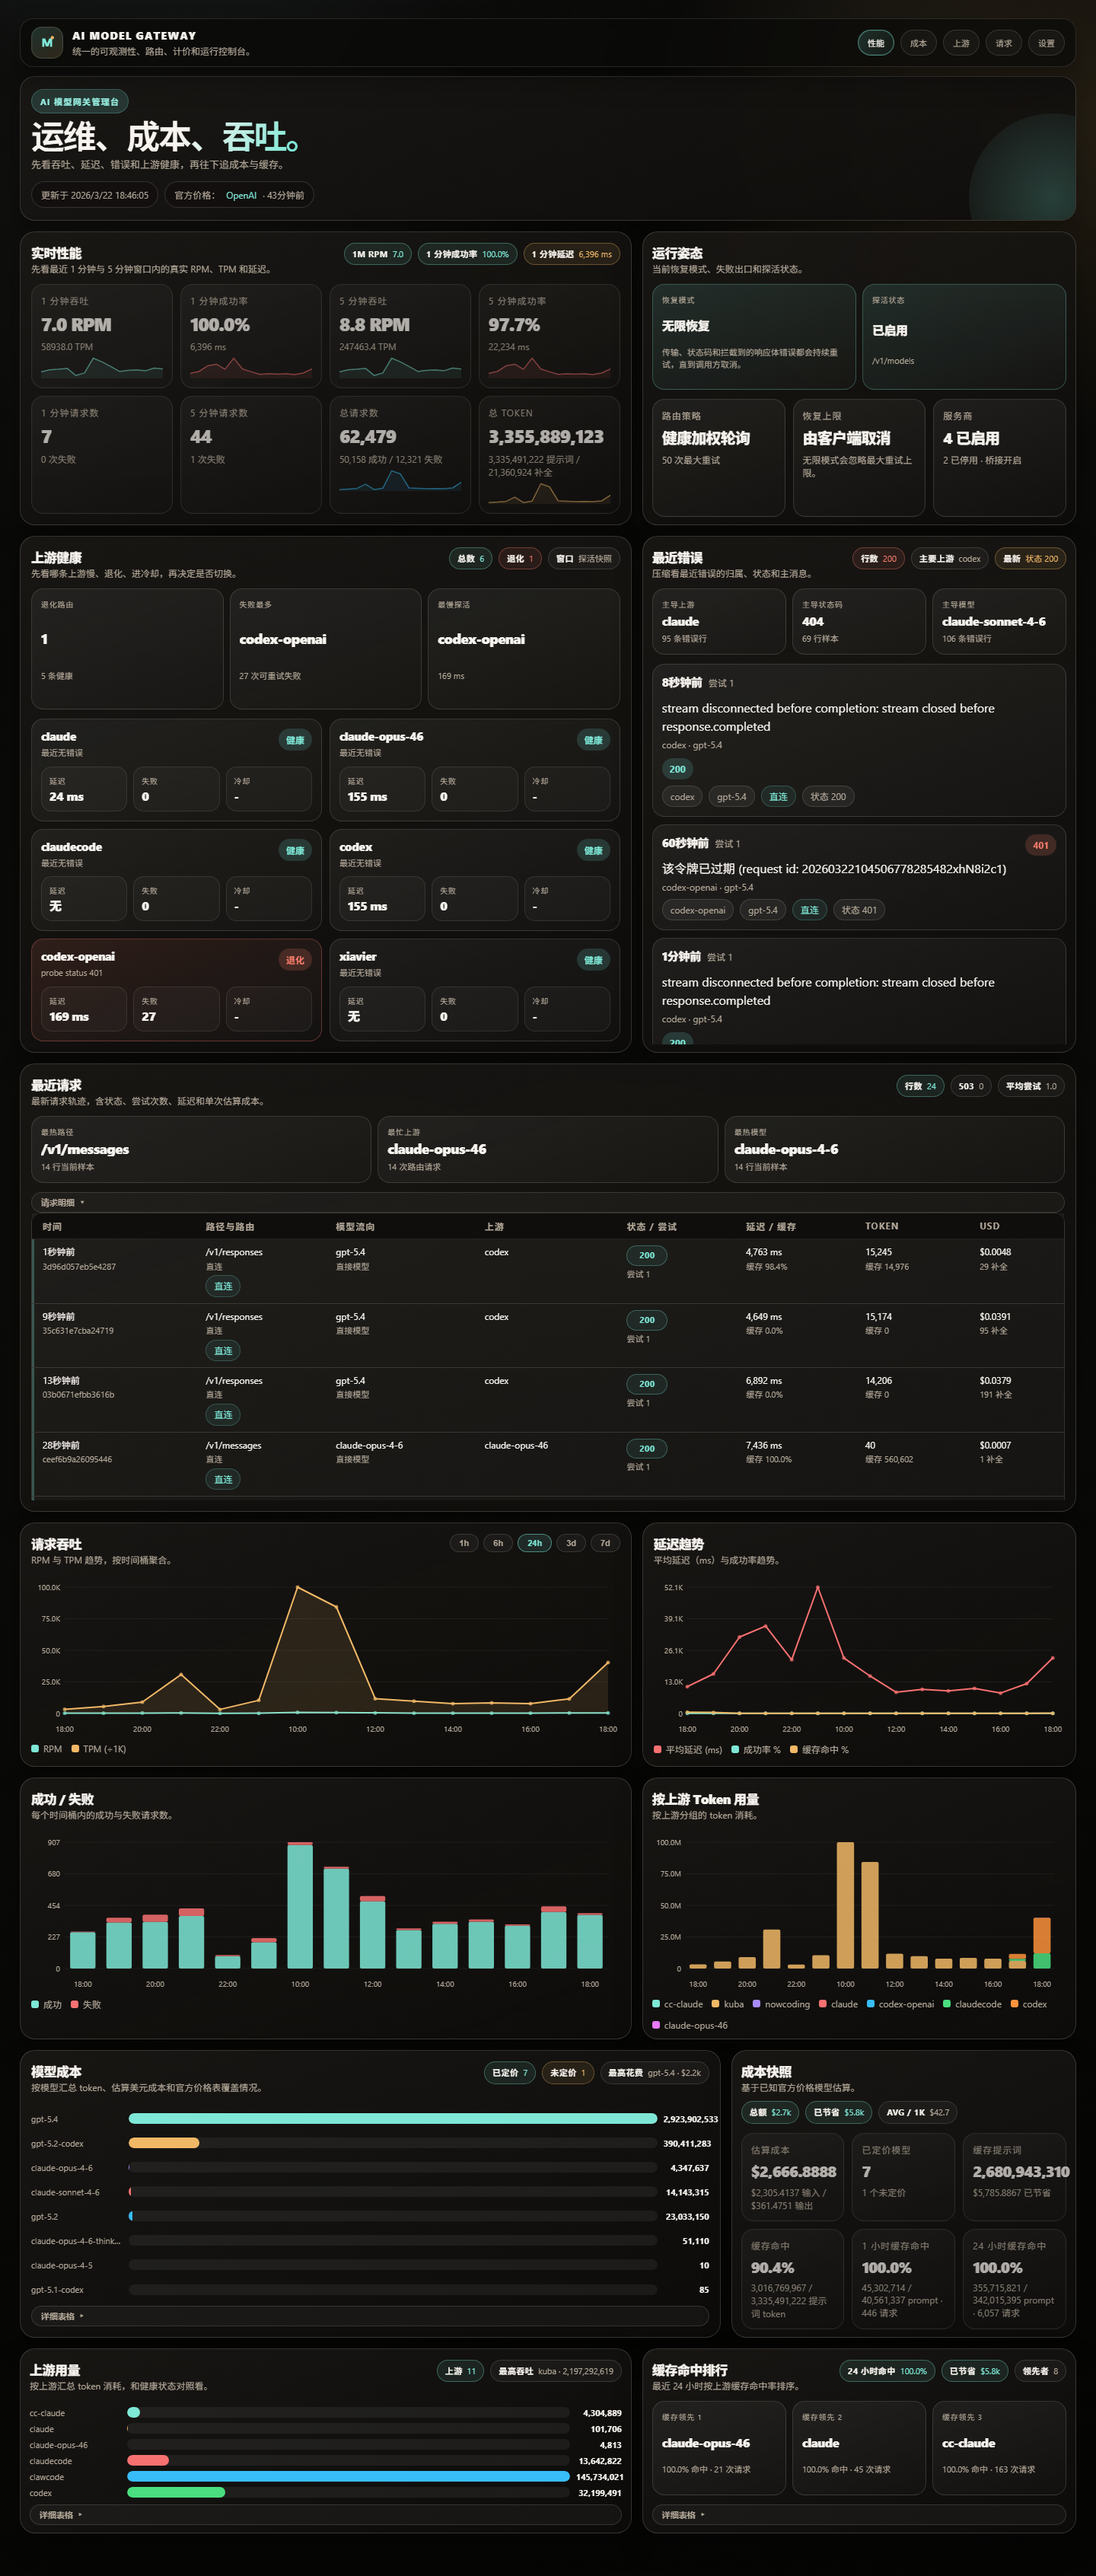
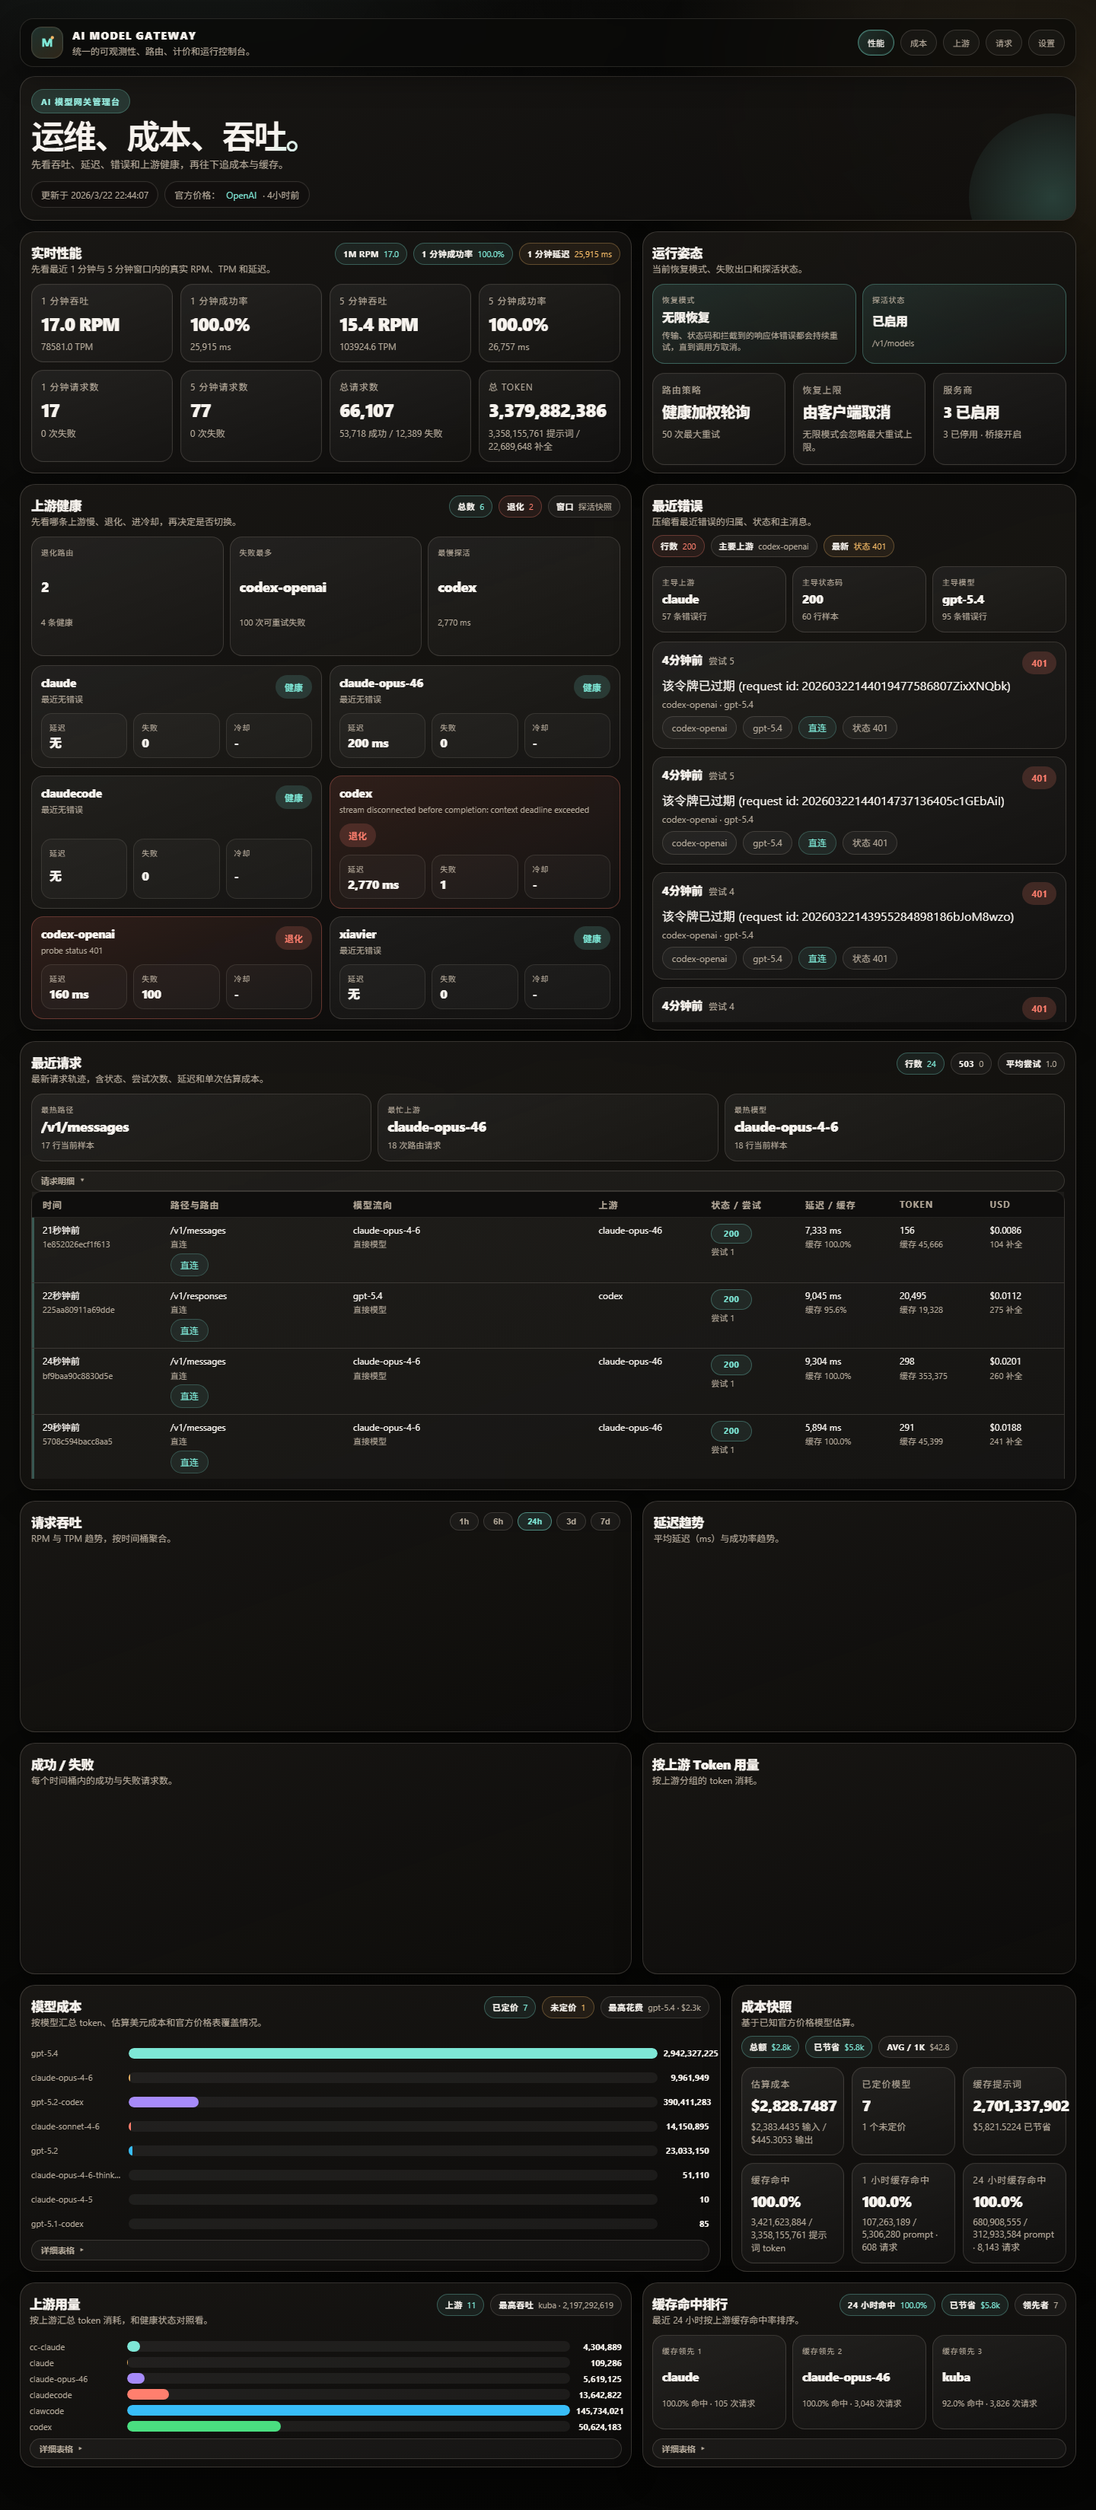
release: v0.2.1 — security hardening, performance optimization, style consistency
- Bump VERSION to 0.2.1
- Update CHANGELOG with full release notes
- Update admin overview and settings screenshots

diff --git a/CHANGELOG.md b/CHANGELOG.md
@@ -6,6 +6,44 @@ The format is based on Keep a Changelog, with a lightweight structure suitable f
 
 ## [Unreleased]
 
+## [0.2.1] — 2026-03-22
+
+### Added
+
+- Settings page section nav links (Health, Bridge, Router, Intercepts, Providers, History) added to topbar, matching overview page navigation style.
+- Config package test coverage: `config_test.go` with tests for Normalize defaults, NormalizeAdminLanguage, RewriteModel, Upstream.IsEnabled, NormalizeUpstreamClass.
+- SQL identifier validation (`validSQLIdentifier` regex guard) in telemetry store before any `fmt.Sprintf` with table/column names.
+- `rows.Err()` checks after all 7 `for rows.Next()` loops in telemetry store.
+
+### Changed
+
+- Settings page nav redesigned: jumpbar changed from 3x2 grid cards to horizontal pill tabs matching topbar style.
+- Settings rail (history panel) now scrollable with `max-height: calc(100vh - 100px)` to prevent exceeding left column height.
+- Settings shell `align-items: stretch` for provider card bottom alignment.
+- Frontend performance: `setHTML()` helper skips unchanged DOM updates (~22 elements per 5s cycle).
+- Frontend performance: unified polling — `loadCharts()` piggybacks on every 3rd `load()` cycle instead of independent `setInterval`.
+- Frontend performance: forced reflows replaced with double-`requestAnimationFrame`.
+- Frontend performance: sparkline IDs stabilized (deterministic `sp-m-{idx}` instead of `Math.random()`).
+- Upstream disable poll interval: 100ms → 1s (10x reduction in goroutine overhead).
+- Frontend style consistency: unified green RGB values, normalized chip padding (two tiers), semantic state alphas (border 0.30/bg 0.08), background alpha 0.04, hover patterns with translateY(-1px), transition timings, media query ordering.
+- Chart danger color `#f87171` → `#ff7f6e` (matches `--danger` CSS variable).
+- Validation-warning amber corrected from `rgba(240,179,90)` to `rgba(241,184,102)`.
+- 9px font-size normalized to 10px.
+- Removed 3 no-op compact-card CSS overrides and unused `.hero-side` CSS/HTML/Go code.
+- Bumped VERSION from 0.2.0 to 0.2.1.
+
+### Fixed
+
+- Security: auth token comparison uses `crypto/subtle.ConstantTimeCompare` (prevents timing attacks on all 3 auth paths).
+- Security: admin config PUT endpoint capped at 10MB via `http.MaxBytesReader`.
+- Config watcher: fsnotify errors and reload failures now logged (were silently discarded).
+- Config `Normalize()` no longer forces `admin.enabled=true` — respects user setting.
+- Telemetry `flushWriter`: `select` with 5s timeout prevents deadlock when channel full.
+- Router `PickSticky`: refactored to `defer m.mu.Unlock()` via helper, eliminating fragile manual unlock across return paths.
+- Admin data endpoint: `sync.Cond.Wait()` now has 3s deadline, serves stale data on timeout instead of blocking forever.
+- Server shutdown errors now logged instead of discarded.
+- `.detail-toggle` added to focus-visible selector list.
+
 ## [0.2.0] — 2026-03-22
 
 ### Added
